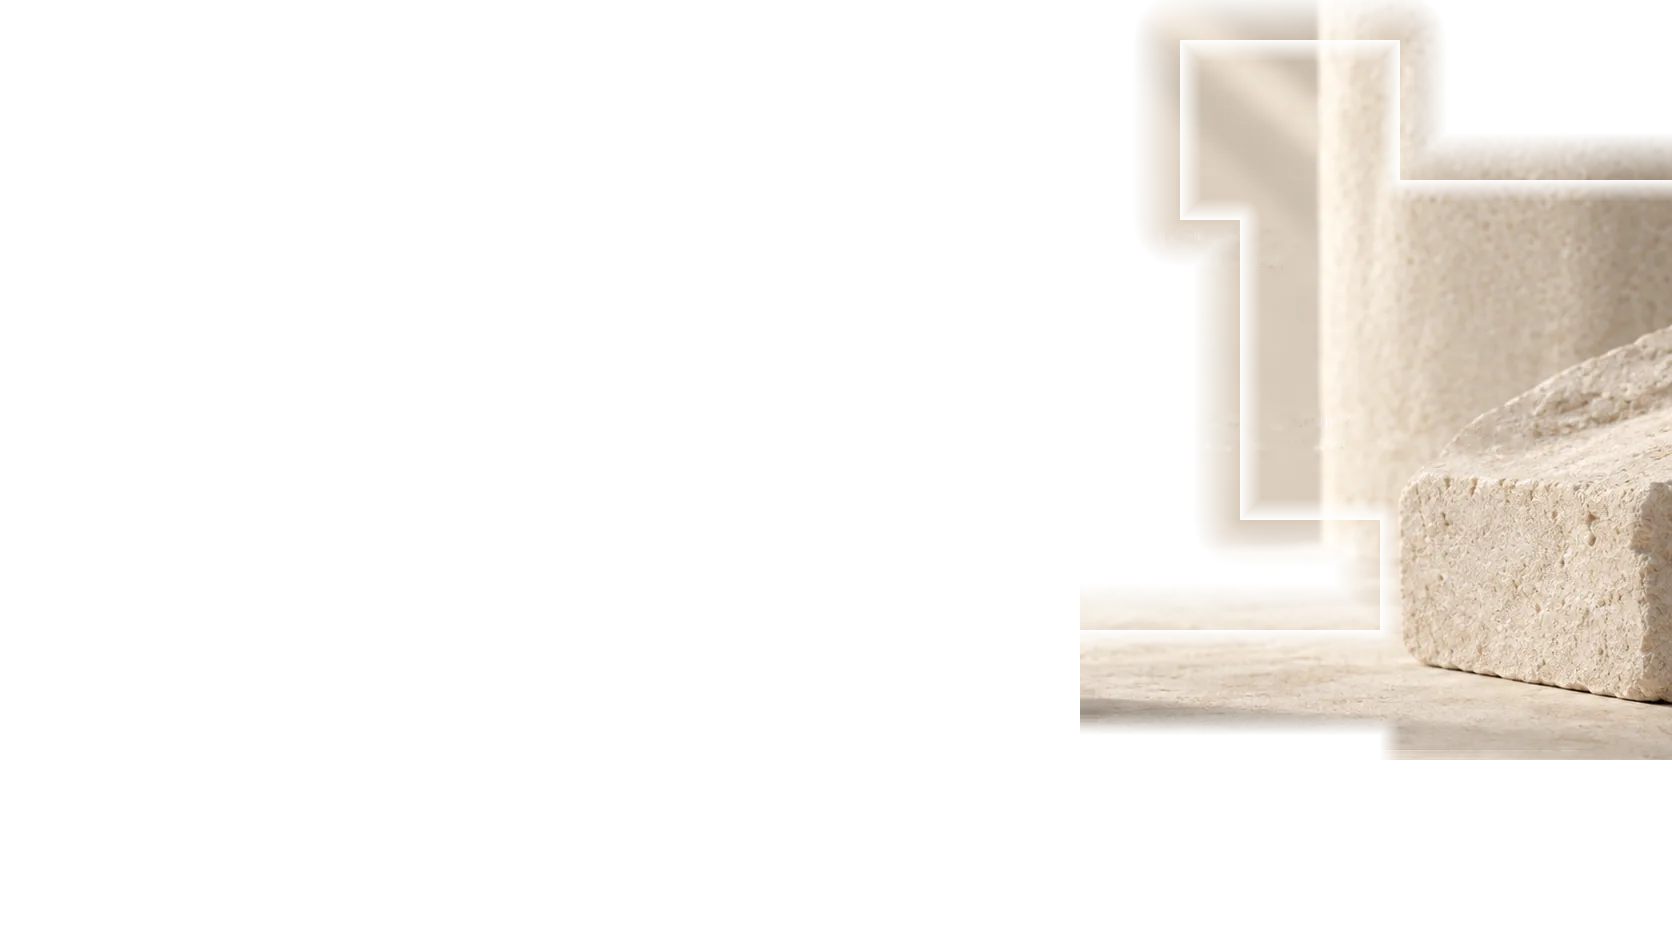
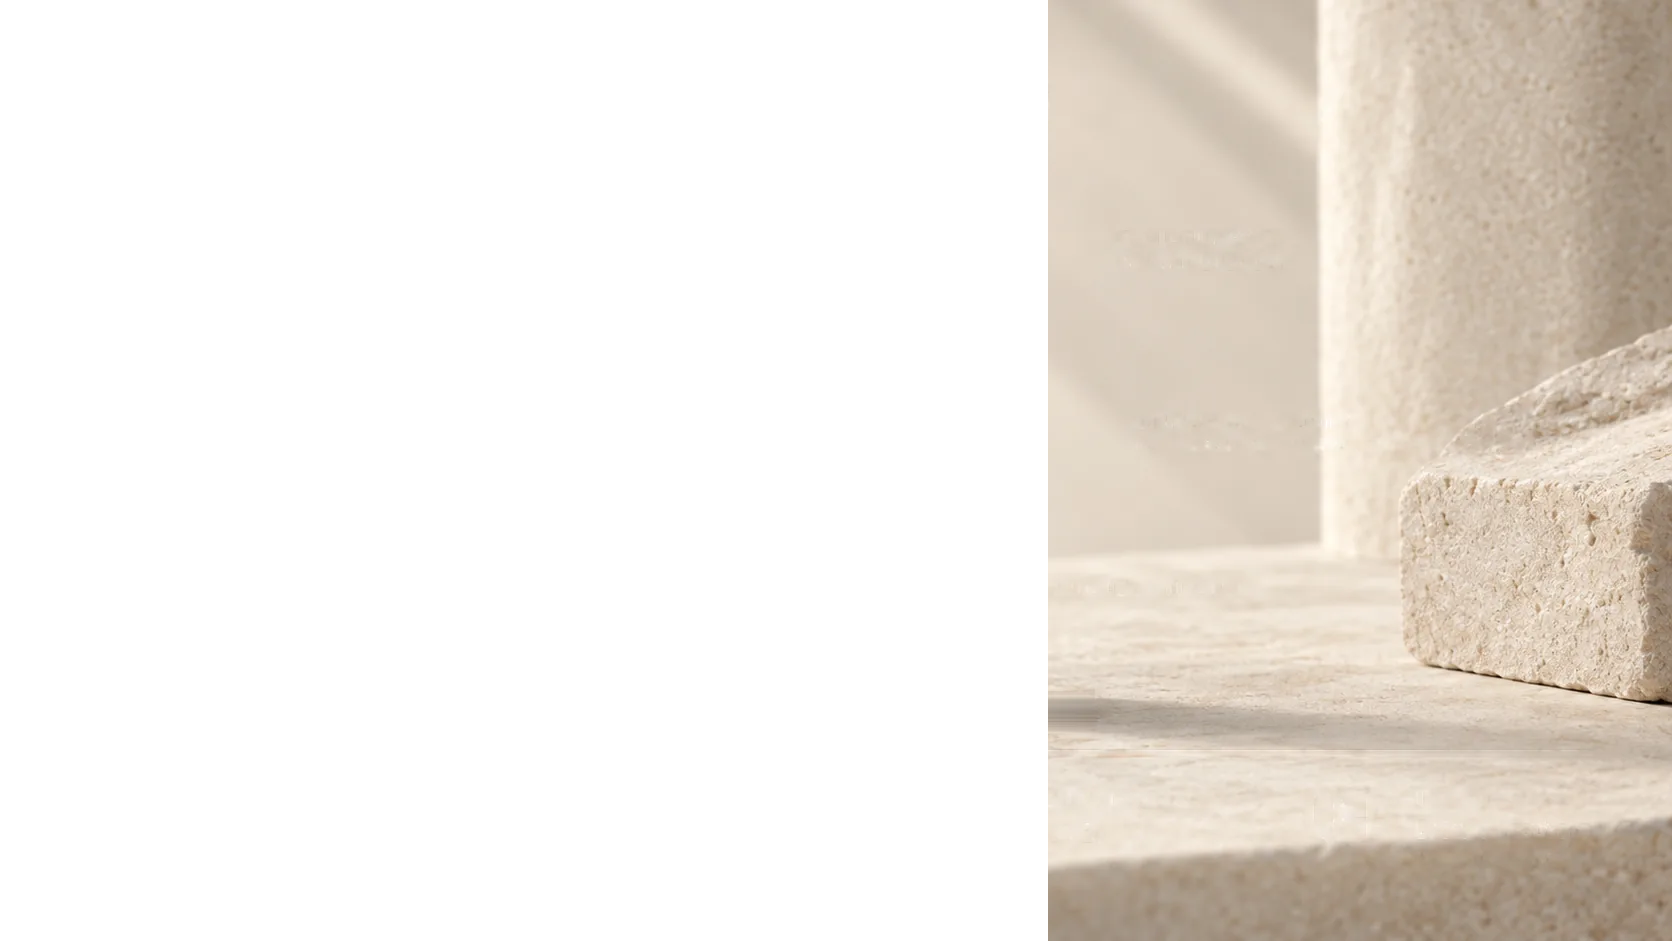
Separate the hardware pills onto their footprints and fade the plate into the stone scene.

Changed region(s): [[0.622, 0.0, 1.0, 1.0]]

diff --git a/Home.dc.html b/Home.dc.html
@@ -287,6 +287,9 @@ input::placeholder { color: #B0A99A; }
   height: 100%;
   object-fit: fill;
   display: block;
+  /* 1048/1672 to 1466/1672. The ramp is 418px, a quarter of the frame. */
+  -webkit-mask-image: linear-gradient(to right, transparent 0%, transparent 62.679%, var(--matte-black) 87.679%, var(--matte-black) 100%);
+  mask-image: linear-gradient(to right, transparent 0%, transparent 62.679%, var(--matte-black) 87.679%, var(--matte-black) 100%);
 }
 /* Plate and device are both 1672 by 941. The device is a transparent overlay
    in the same frame, so either artwork is swapped by replacing that file. */
@@ -308,7 +311,7 @@ input::placeholder { color: #B0A99A; }
 .bond-hw-pill-num {
   font-family: var(--bond-hw-sans);
   font-weight: 700;
-  font-size: 15px;
+  font-size: 9px;
   fill: var(--bond-hw-pill-ink);
 }
 .bond-hw-shadow {
@@ -499,13 +502,16 @@ input::placeholder { color: #B0A99A; }
   }
   .bond-hw-plate {
     position: relative;
+    align-self: flex-start;
     inset: auto;
-    width: 294%;
+    width: calc(100% * 1672 / 624);
     max-width: none;
     height: 168px;
     object-fit: cover;
-    object-position: right 58%;
-    left: -194%;
+    object-position: right 60%;
+    left: calc(100% - 100% * 1672 / 624);
+    -webkit-mask-image: none;
+    mask-image: none;
   }
   .bond-hw-device-hold {
     position: relative;
@@ -731,7 +737,7 @@ input::placeholder { color: #B0A99A; }
   <section id="hardware" class="bond-hw" data-screen-label="Hardware" aria-labelledby="bond-hw-title">
     <div class="bond-hw-frame">
       <img class="bond-hw-plate" src="media/hardware/bond-hardware-plate.webp" width="1672" height="941" alt="The Bond hardware with its full-function smart display shown active.">
-      <div class="bond-hw-device-hold"><div class="bond-hw-shadow" aria-hidden="true"></div><img class="bond-hw-device" src="media/hardware/bond-hardware-device.webp" width="1672" height="941" alt="" aria-hidden="true"><svg class="bond-hw-pills" viewBox="0 0 1672 941" preserveAspectRatio="none" aria-hidden="true"><defs><linearGradient id="bond-hw-g1" x1="0" y1="0" x2="1" y2="0"><stop offset="0" style="stop-color:var(--bond-hw-pill-1)"/><stop offset="1" style="stop-color:var(--bond-hw-pill-1b)"/></linearGradient><linearGradient id="bond-hw-g2" x1="0" y1="0" x2="1" y2="0"><stop offset="0" style="stop-color:var(--bond-hw-pill-2)"/><stop offset="1" style="stop-color:var(--bond-hw-pill-2b)"/></linearGradient><linearGradient id="bond-hw-g3" x1="0" y1="0" x2="1" y2="0"><stop offset="0" style="stop-color:var(--bond-hw-pill-3)"/><stop offset="1" style="stop-color:var(--bond-hw-pill-3b)"/></linearGradient></defs><rect x="867" y="429" width="89" height="33" rx="16.5" fill="url(#bond-hw-g1)"/><rect x="865" y="453" width="88" height="28" rx="14" fill="url(#bond-hw-g2)"/><rect x="861.5" y="471.5" width="91" height="37" rx="18.5" fill="url(#bond-hw-g3)"/><text class="bond-hw-pill-num" x="911" y="445" text-anchor="middle" dominant-baseline="central">1</text><text class="bond-hw-pill-num" x="909" y="467" text-anchor="middle" dominant-baseline="central">2</text><text class="bond-hw-pill-num" x="907" y="490" text-anchor="middle" dominant-baseline="central">3</text></svg></div>
+      <div class="bond-hw-device-hold"><div class="bond-hw-shadow" aria-hidden="true"></div><img class="bond-hw-device" src="media/hardware/bond-hardware-device.webp" width="1672" height="941" alt="" aria-hidden="true"><svg class="bond-hw-pills" viewBox="0 0 1672 941" preserveAspectRatio="none" aria-hidden="true"><defs><linearGradient id="bond-hw-g1" x1="0" y1="0" x2="1" y2="0"><stop offset="0" style="stop-color:var(--bond-hw-pill-1)"/><stop offset="1" style="stop-color:var(--bond-hw-pill-1b)"/></linearGradient><linearGradient id="bond-hw-g2" x1="0" y1="0" x2="1" y2="0"><stop offset="0" style="stop-color:var(--bond-hw-pill-2)"/><stop offset="1" style="stop-color:var(--bond-hw-pill-2b)"/></linearGradient><linearGradient id="bond-hw-g3" x1="0" y1="0" x2="1" y2="0"><stop offset="0" style="stop-color:var(--bond-hw-pill-3)"/><stop offset="1" style="stop-color:var(--bond-hw-pill-3b)"/></linearGradient></defs><g transform="rotate(7.4 911.5 447.4)"><rect x="873" y="438.65" width="77" height="17.5" rx="8.75" fill="url(#bond-hw-g1)"/></g><g transform="rotate(7.1 908.7 468.6)"><rect x="870.2" y="459.35" width="77" height="18.5" rx="9.25" fill="url(#bond-hw-g2)"/></g><g transform="rotate(6.9 905.6 488.5)"><rect x="867.1" y="479.5" width="77" height="18" rx="9" fill="url(#bond-hw-g3)"/></g><text class="bond-hw-pill-num" x="911.5" y="447.4" text-anchor="middle" dominant-baseline="central">1</text><text class="bond-hw-pill-num" x="908.7" y="468.6" text-anchor="middle" dominant-baseline="central">2</text><text class="bond-hw-pill-num" x="905.6" y="488.5" text-anchor="middle" dominant-baseline="central">3</text></svg></div>
       <p class="bond-hw-eyebrow bond-hw-rv">THE BOND HARDWARE</p>
       <h2 id="bond-hw-title" class="bond-hw-title bond-hw-rv"><span>Designed</span><span>around the oil.</span></h2>
       <p class="bond-hw-lede bond-hw-rv">

diff --git a/bond-tokens.css b/bond-tokens.css
@@ -10,11 +10,11 @@
   --bond-hw-muted: #3F3730;
   --bond-hw-leader: #2C2925;
   --bond-hw-dot: #4FEC2E;
-  --bond-hw-pill-1: #7BF258;
-  --bond-hw-pill-1b: #EDF857;
-  --bond-hw-pill-2: #4661E2;
-  --bond-hw-pill-2b: #32F1EB;
-  --bond-hw-pill-3: #F33A54;
-  --bond-hw-pill-3b: #F46DE8;
+  --bond-hw-pill-1: #74F04A;
+  --bond-hw-pill-1b: #EAF662;
+  --bond-hw-pill-2: #4647E8;
+  --bond-hw-pill-2b: #38EDEC;
+  --bond-hw-pill-3: #E43A55;
+  --bond-hw-pill-3b: #F36DEA;
   --bond-hw-pill-ink: #F7F4EE;
 }
